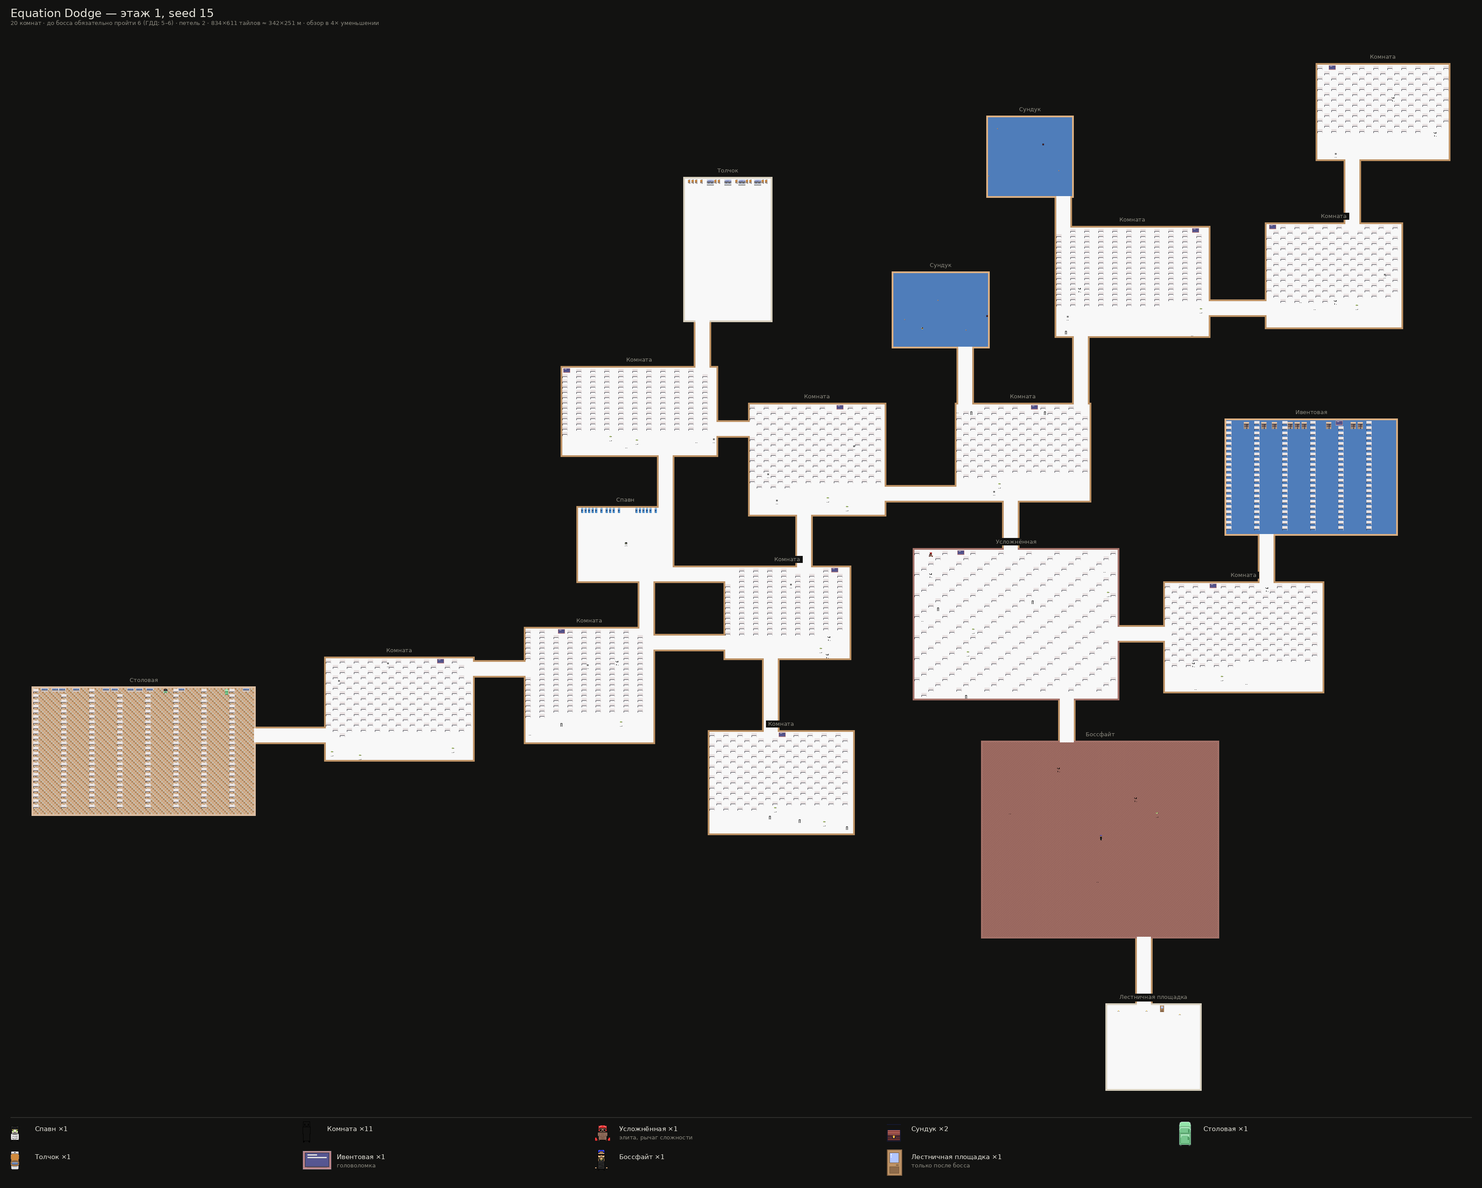
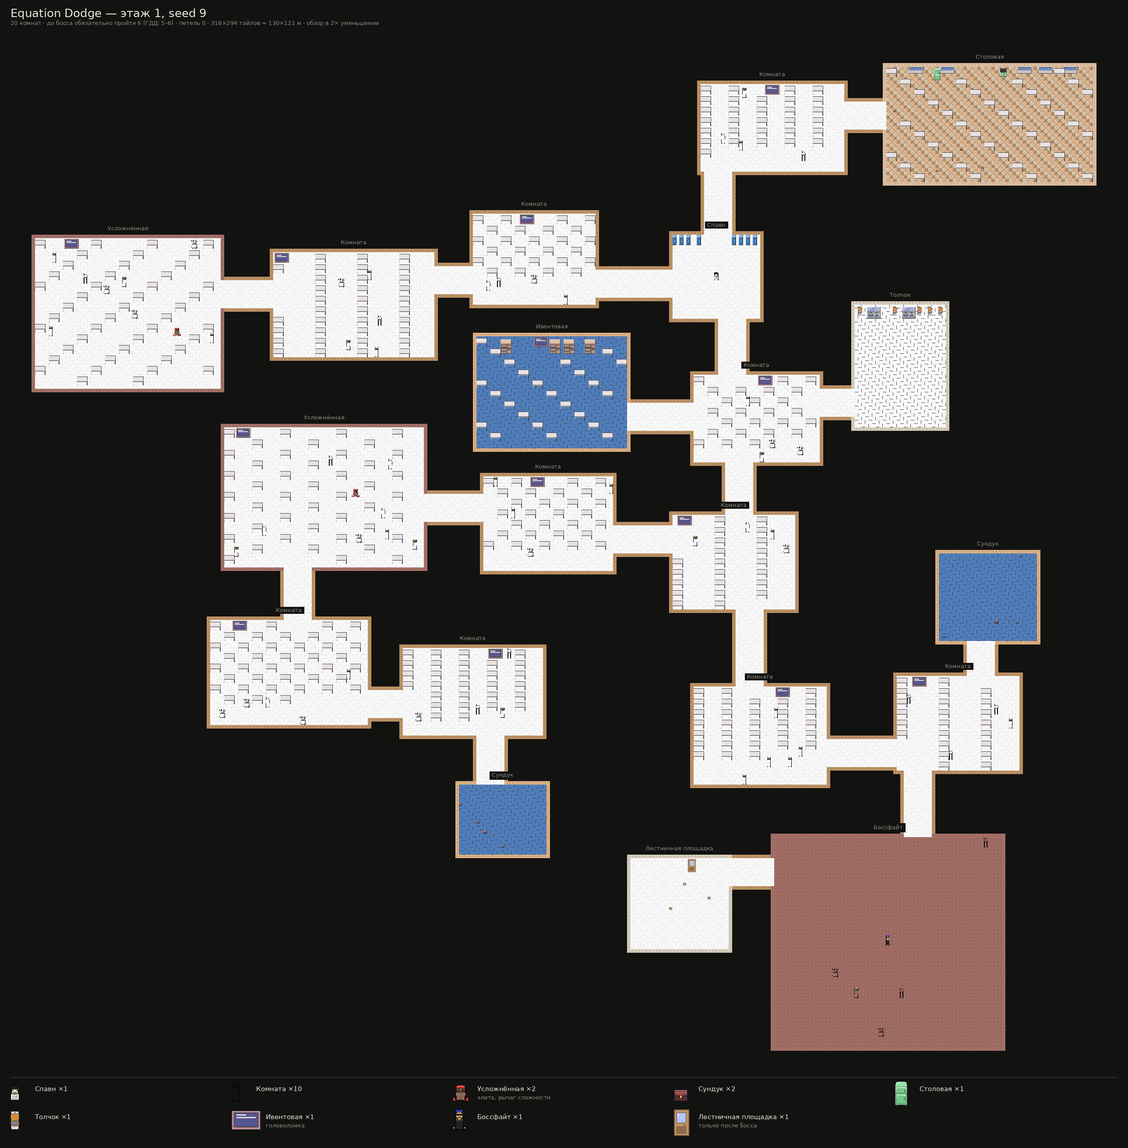
Размеры комнат возвращены к ×2 от исходных
Обычная комната 15–20 × 11–14 м, боссфайт 26–31 × 21–25 м, этаж примерно
150×120 м. Это вдвое больше размеров по концепт-схеме и вдвое меньше прошлого
шага.

Заодно вернулись к пропорциям и производные числа: перемычка 8–20 тайлов в
длину при той же ширине 8 (3.3 м), зазор между комнатами 6 тайлов, опорная
площадь для числа врагов — 1250 тайлов, то есть снова размер обычной комнаты.
Обзорный рендер по умолчанию рисует тайлом 8 px: карта 1:1 теперь 27
мегапикселей вместо 110.

На этом масштабе время этажа впервые попадает в середину диапазона ГДД:

  исходный  7–10 × 5–7 м    3.0–7.0 мин, середина 4.8, дорога 0.3
  ×2        15–20 × 11–14 м 3.9–7.6 мин, середина 5.8, дорога 1.2
  ×4        30–39 × 21–28 м 5.1–8.9 мин, середина 7.0, дорога 2.4

Таблица сравнения добавлена в docs/room_generation.md, чтобы решение о масштабе
было видно вместе с его ценой.

Остальные метрики не сдвинулись: 18.9 комнат, маршрут до босса 5–6 всегда,
петель 1.6, сундук и усложнённая на 100% этажей, 0 нарушений, генерация с
первой попытки.

Claude-Session: https://claude.ai/code/session_01VbZQ7syAzjx1kLToCE5dbU

diff --git a/roomgen/config.py b/roomgen/config.py
@@ -119,28 +119,26 @@ class GenConfig:
     #: вытянутый, спавн/сундук/лестница — маленькие.
     sizes: Dict[RoomType, Tuple[Size, Size]] = field(
         default_factory=lambda: {
-            RoomType.SPAWN:     ((48, 60), (44, 52)),
-            RoomType.NORMAL:    ((72, 96), (52, 68)),
-            RoomType.HARD:      ((96, 120), (72, 92)),
-            RoomType.CAFETERIA: ((120, 144), (64, 80)),
-            RoomType.TOILET:    ((48, 60), (68, 88)),
-            RoomType.CHEST:     ((48, 60), (44, 56)),
-            RoomType.EVENT:     ((88, 108), (56, 72)),
-            RoomType.BOSS:      ((128, 152), (104, 124)),
-            RoomType.STAIRS:    ((52, 64), (44, 56)),
+            RoomType.SPAWN:     ((24, 30), (22, 26)),
+            RoomType.NORMAL:    ((36, 48), (26, 34)),
+            RoomType.HARD:      ((48, 60), (36, 46)),
+            RoomType.CAFETERIA: ((60, 72), (32, 40)),
+            RoomType.TOILET:    ((24, 30), (34, 44)),
+            RoomType.CHEST:     ((24, 30), (22, 28)),
+            RoomType.EVENT:     ((44, 54), (28, 36)),
+            RoomType.BOSS:      ((64, 76), (52, 62)),
+            RoomType.STAIRS:    ((26, 32), (22, 28)),
         }
     )
 
     # --- перемычки между комнатами ----------------------------------------
     #: Длина перемычки масштабирована вместе с комнатами, чтобы сохранились
     #: пропорции концепт-схемы: связь короткая относительно размера комнаты.
-    corridor_length: Tuple[int, int] = (16, 40)
-    #: Ширина оставлена вдвое меньше масштаба: 8 тайлов — это 3.3 м, ширина
-    #: настоящего школьного коридора. При ×4 получилось бы 6.5 м, и проход
-    #: перестал бы отличаться от комнаты.
+    corridor_length: Tuple[int, int] = (8, 20)
+    #: 8 тайлов — это 3.3 м, ширина настоящего школьного коридора.
     corridor_width: int = 8
     #: Минимальный зазор между стенами двух комнат (тайлов).
-    room_margin: int = 12
+    room_margin: int = 6
 
     # --- ветвление ---------------------------------------------------------
     branch_length: Tuple[int, int] = (1, 3)
@@ -157,7 +155,7 @@ class GenConfig:
     loop_chance: float = 0.45
     #: Для петель зазор допускается шире: комнаты вставали независимо друг
     #: от друга, и ровно 4–10 тайлов между ними попадается редко.
-    loop_corridor_length: Tuple[int, int] = (12, 80)
+    loop_corridor_length: Tuple[int, int] = (6, 40)
 
     # --- служебное ---------------------------------------------------------
     placement_tries: int = 48

diff --git a/roomgen/render_sprites.py b/roomgen/render_sprites.py
@@ -65,7 +65,7 @@ ROOM_PROPS: Dict[RoomType, Sequence[Tuple[str, str, int]]] = {
 #: Площадь пола обычного класса в тайлах — опора для числа врагов. Бой в
 #: комнате по ГДД длится 5–15 секунд, поэтому враги считаются от комнаты,
 #: а не от квадратных метров.
-REFERENCE_INTERIOR = 5000
+REFERENCE_INTERIOR = 1250
 
 #: А мебель заполняет площадь, поэтому её плотность привязана к метрам:
 #: столько тайлов пола приходилось на один предмет в комнате прежнего размера.
@@ -284,7 +284,7 @@ def draw_map(floor: Floor, atlas: Optional[Atlas] = None, floor_number: int = 1,
 
 
 def render_floor(floor: Floor, path: str, scale: int = 1, floor_number: int = 1,
-                 atlas: Optional[Atlas] = None, tile_px: int = 4) -> str:
+                 atlas: Optional[Atlas] = None, tile_px: int = 8) -> str:
     """Чистая карта уровня без подписей (по умолчанию — обзорная, тайл 4 px)."""
     canvas, _ = draw_map(floor, atlas, floor_number, tile_px)
     if scale != 1:
@@ -333,8 +333,8 @@ def _legend_sprite(atlas: Atlas, spec: str) -> Image.Image:
 
 
 def render_annotated(floor: Floor, path: str, scale: int = 1, floor_number: int = 1,
-                     atlas: Optional[Atlas] = None, tile_px: int = 4) -> str:
-    """Карта + подписи комнат + легенда со спрайтами (обзорная, тайл 4 px)."""
+                     atlas: Optional[Atlas] = None, tile_px: int = 8) -> str:
+    """Карта + подписи комнат + легенда со спрайтами (обзорная, тайл 8 px)."""
     atlas = atlas or Atlas()
     canvas, tm = draw_map(floor, atlas, floor_number, tile_px)
     big = canvas if scale == 1 else canvas.resize(

diff --git a/docs/room_generation.md b/docs/room_generation.md
@@ -33,26 +33,29 @@
 
 | Комната | Тайлов | В метрах | Роль |
 |---|---|---|---|
-| Спавн | 48–60 × 44–52 | 20–25 × 18–21 м | вестибюль |
-| Обычная | 72–96 × 52–68 | 30–39 × 21–28 м | лекционная аудитория |
-| Усложнённая | 96–120 × 72–92 | 39–49 × 30–38 м | большая аудитория, ставка на сложность |
-| Столовая | 120–144 × 64–80 | 49–59 × 26–33 м | обеденный зал |
-| Толчок | 48–60 × 68–88 | 20–25 × 28–36 м | узкий и вытянутый |
-| Сундук | 48–60 × 44–56 | 20–25 × 18–23 м | сокровищница |
-| Ивентовая | 88–108 × 56–72 | 36–44 × 23–30 м | кабинет с доской |
-| **Боссфайт** | **128–152 × 104–124** | **52–62 × 43–51 м** | арена |
-| Лестничная площадка | 52–64 × 44–56 | 21–26 × 18–23 м | три стойки с перками |
+| Спавн | 24–30 × 22–26 | 10–12 × 9–11 м | вестибюль |
+| Обычная | 36–48 × 26–34 | 15–20 × 11–14 м | школьная аудитория |
+| Усложнённая | 48–60 × 36–46 | 20–25 × 15–19 м | большая аудитория, ставка на сложность |
+| Столовая | 60–72 × 32–40 | 25–30 × 13–16 м | обеденный зал |
+| Толчок | 24–30 × 34–44 | 10–12 × 14–18 м | узкий и вытянутый |
+| Сундук | 24–30 × 22–28 | 10–12 × 9–11 м | сокровищница |
+| Ивентовая | 44–54 × 28–36 | 18–22 × 11–15 м | кабинет с доской |
+| **Боссфайт** | **64–76 × 52–62** | **26–31 × 21–25 м** | арена |
+| Лестничная площадка | 26–32 × 22–28 | 11–13 × 9–11 м | три стойки с перками |
 
 Тест `test_boss_is_the_biggest_room` держит главное: боссфайт всегда крупнее
 любой другой комнаты этажа, как на концепт-схеме.
 
-Перемычки масштабированы не один в один. **Длина** выросла вместе с комнатами
-(16–40 тайлов), чтобы сохранились пропорции схемы: связь короткая относительно
-комнаты. **Ширина** оставлена вдвое меньше масштаба — 8 тайлов, то есть 3.3 м,
-ширина настоящего школьного коридора. При честном ×4 получилось бы 6.5 м, и
-проход перестал бы отличаться от комнаты.
+Перемычка — 8 тайлов в ширину (3.3 м, ширина настоящего школьного коридора) и
+8–20 тайлов в длину: связь короткая относительно комнаты, как на схеме.
 
-Этаж целиком выходит примерно **800×600 тайлов, то есть 330×250 м**.
+Этаж целиком выходит примерно **360×290 тайлов, то есть 150×120 м**.
+
+Размеры подбирались итерациями: исходные (класс 7×5 м) давали слишком быстрый
+этаж, вчетверо больше по стороне — слишком долгий и пустой. Текущие вдвое
+больше исходных, и именно на них время этажа попадает в середину диапазона ГДД
+(см. замеры ниже). Всё это одна таблица `GenConfig.sizes` — перебрать масштаб
+заново стоит одной правки и прогона тестов.
 
 ## 3. Алгоритм
 
@@ -127,14 +130,14 @@ attach(опора, тип):
 
 | Метрика | ГДД | Факт |
 |---|---|---|
-| Комнат на этаже | 16–22, в среднем 18–20 | 16–22, среднее **19.0** |
+| Комнат на этаже | 16–22, в среднем 18–20 | 16–21, среднее **18.9** |
 | Обязательный маршрут до босса | 5–6 комнат | **5–6, всегда** |
 | Сундук на этаже | 1–2 | 100% этажей |
 | Усложнённая | 1–2 | 100% этажей |
 | Ивентовая | 50% | 46% |
-| Столовая / толчок | 0–1 | 72% / 71% |
-| Петли на этаже | «возможны развилки» | в среднем 1.8 |
-| Время зачистки на 100% | 5–7 мин | **5.1–8.9 мин, середина 7.0** |
+| Столовая / толчок | 0–1 | 70% / 69% |
+| Петли на этаже | «возможны развилки» | в среднем 1.6 |
+| Время зачистки на 100% | 5–7 мин | **3.9–7.6 мин, середина 5.8** |
 | Нарушений проверки | — | **0** |
 | Попыток генерации | — | **1.00** |
 
@@ -147,23 +150,29 @@ attach(опора, тип):
 Свободная планировка снимает ограничение полностью — длина хребта задаётся
 напрямую и получается ровно 5–6. Строка `spine_rooms` в конфиге.
 
-### Три вопроса к балансу после увеличения комнат
+### Как размер комнат влияет на время этажа
 
-Комнаты выросли вчетверо по стороне, то есть **в шестнадцать раз по площади**.
-Алгоритм это пережил без единой правки, а вот баланс поехал — и это решать вам.
+Масштаб прогонялся трижды, и это видно по таймингу. Оценка считает бой по
+таблице ГДД плюс отдельно дорогу (`Floor.travel_seconds`, скорость героя
+принята 4 м/с — предположение).
 
-1. **Время этажа вышло за верхнюю границу ГДД.** Было 3.0–7.0 мин при середине
-   4.8 — этаж пробегался слишком быстро. Стало **5.1–8.9 при середине 7.0**,
-   причём **2.4 минуты из них — чистая беготня**: комнату 39×28 м герой
-   пересекает восемь секунд, а бой в ней по ГДД длится 5–15. Оценка считает
-   дорогу отдельно (`Floor.travel_seconds`, скорость героя принята 4 м/с).
-   Если 5–7 минут — твёрдое требование, комнаты стоит вернуть примерно к ×2.
-2. **Плотность врагов упала в 16 раз.** Число врагов масштабируется корнем от
-   площади, а не линейно: иначе в зале оказалось бы 80 противников, и бой в
-   5–15 секунд стал бы недостижим. Побочный эффект — комната на 800 м² с
-   пятью врагами читается пустой. Либо враги дальнобойные и быстрые, либо их
-   надо заметно больше, чем даёт ГДД.
-3. **Столовая и толчок есть примерно на 70% этажей.** Формально это в рамках
+| Размер комнат | Обычная комната | Зачистка на 100% | Из них дорога |
+|---|---|---|---|
+| исходный (по концепту) | 7–10 × 5–7 м | 3.0–7.0, середина 4.8 | 0.3 мин |
+| **×2 (текущий)** | **15–20 × 11–14 м** | **3.9–7.6, середина 5.8** | **1.2 мин** |
+| ×4 | 30–39 × 21–28 м | 5.1–8.9, середина 7.0 | 2.4 мин |
+
+ГДД просит 5–7 минут на этаж. Исходные комнаты давали слишком быстрый забег,
+×4 — слишком долгий, причём четверть времени уходила на чистую беготню.
+Текущий ×2 попадает в середину диапазона.
+
+### Два вопроса к балансу
+
+1. **Плотность врагов.** Число врагов масштабируется корнем от площади
+   комнаты, а не линейно: иначе бой в 5–15 секунд из ГДД стал бы недостижим.
+   Сейчас в аудитории 18×13 м стоит 5–6 противников — проверьте на ощупь,
+   когда появится управление.
+2. **Столовая и толчок есть примерно на 70% этажей.** Формально это в рамках
    ГДД (0–1 на этаж), но толчок — единственный способ сбросить кортизол, а
    столовая — единственный магазин. Если механика кортизола должна работать,
    стоит положить толчок в обязательную очередь особых комнат — это одна

diff --git a/README.md b/README.md
@@ -48,9 +48,9 @@ python3 -m unittest discover -s tests # 29 тестов
 - 19.0 комнат на этаже в среднем (ГДД: 16–22, в среднем 18–20)
 - обязательный маршрут до босса — 5–6 комнат на каждом сиде (ГДД 3.1: 5–6)
 - сундук и усложнённая комната — на 100% этажей, ивент — на 46% (ГДД: 50%)
-- размер комнаты кодирует тип: боссфайт — арена 57×47 м, обычная — 34×24 м
+- размер комнаты кодирует тип: боссфайт — арена 28×23 м, обычная — 17×12 м
 - петли есть у большинства этажей и не укорачивают путь до босса
-- зачистка на 100% — 5.1–8.9 мин при цели ГДД 5–7 (см. вопросы к балансу)
+- зачистка на 100% — 3.9–7.6 мин при цели ГДД 5–7, середина 5.8
 - 0 этажей с нарушениями, генерация с первой попытки
 - один сид всегда даёт один и тот же этаж
 
